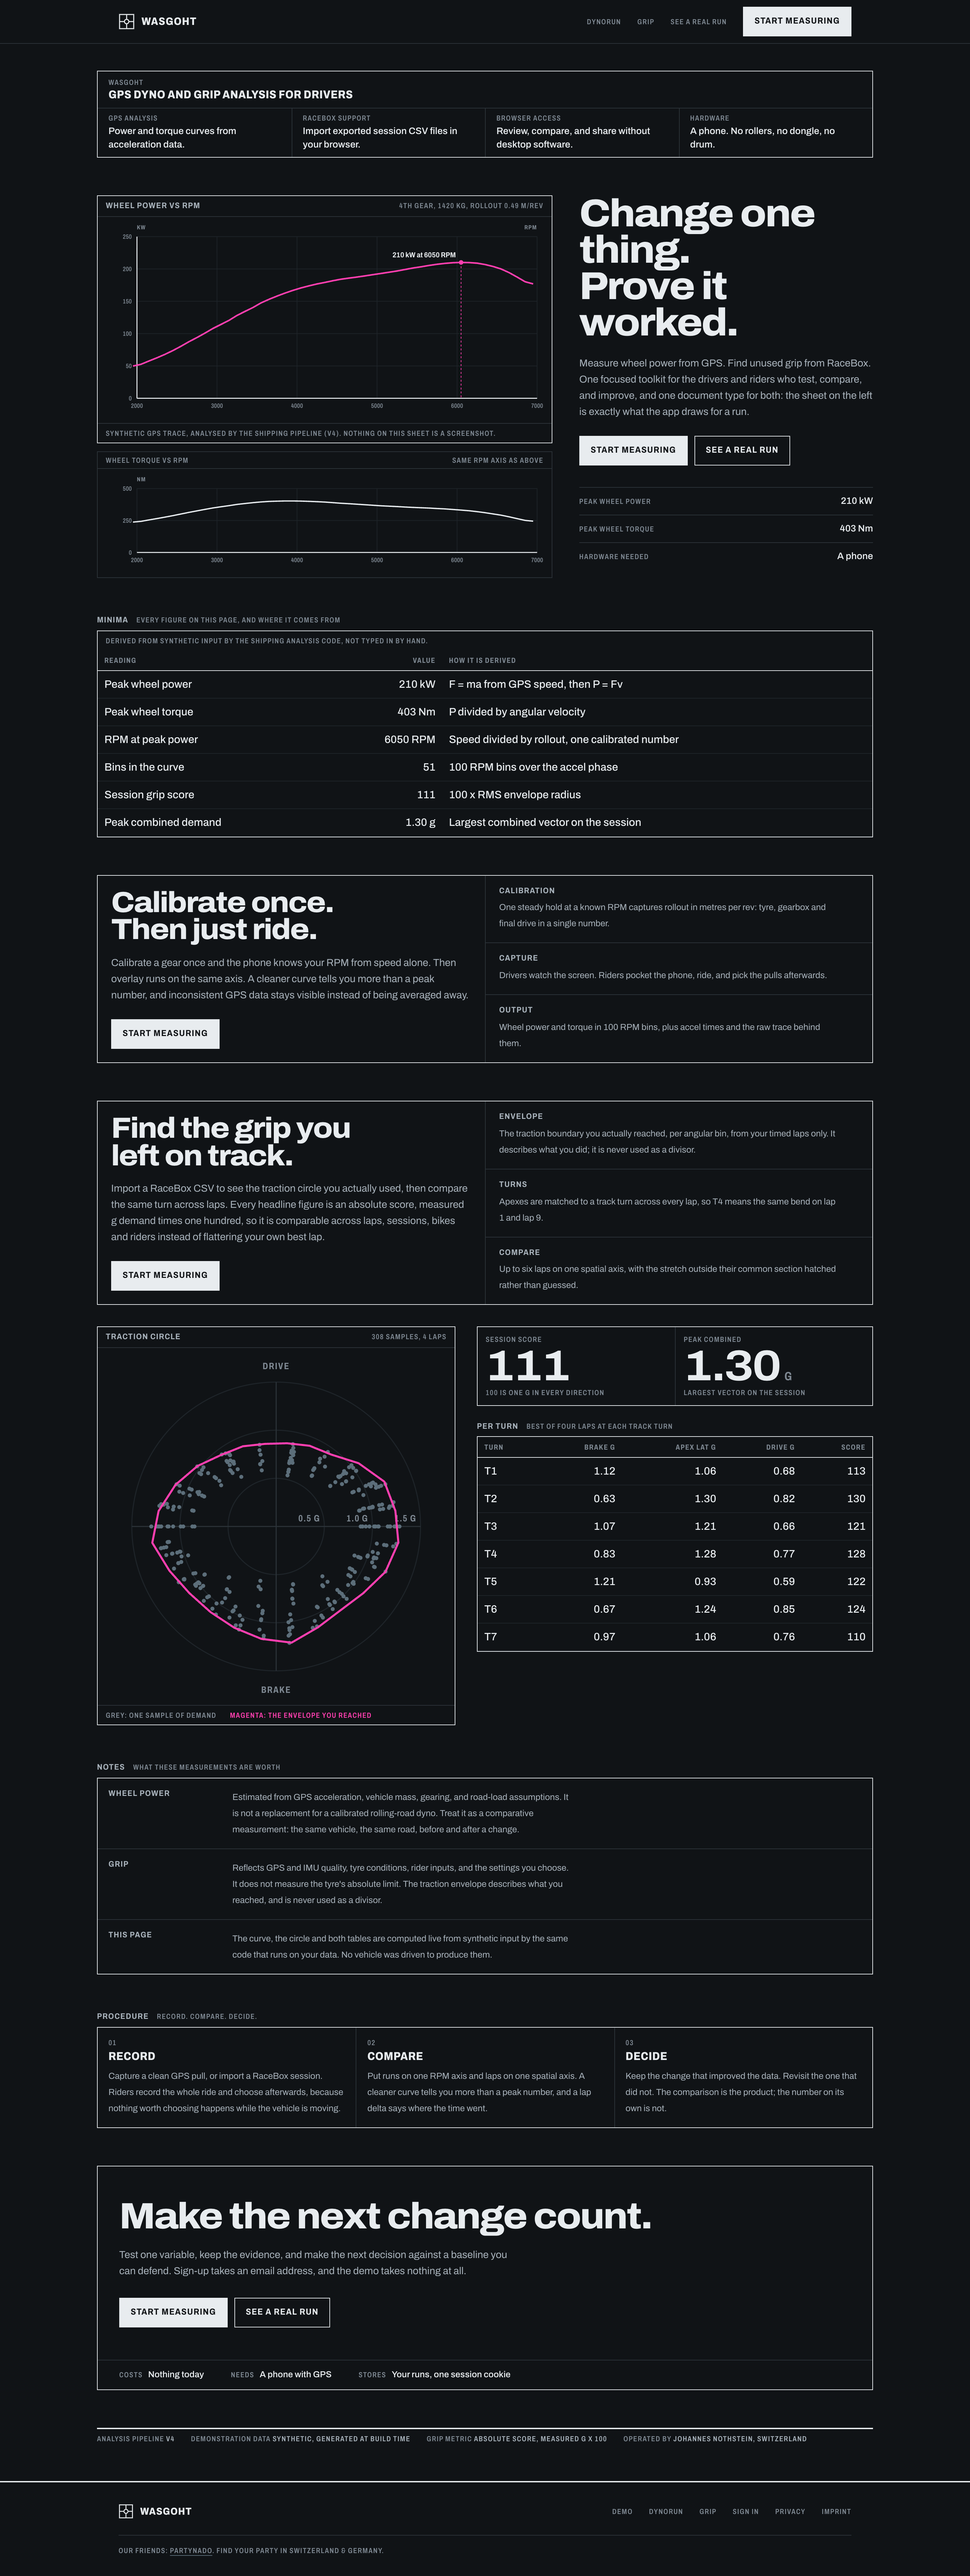
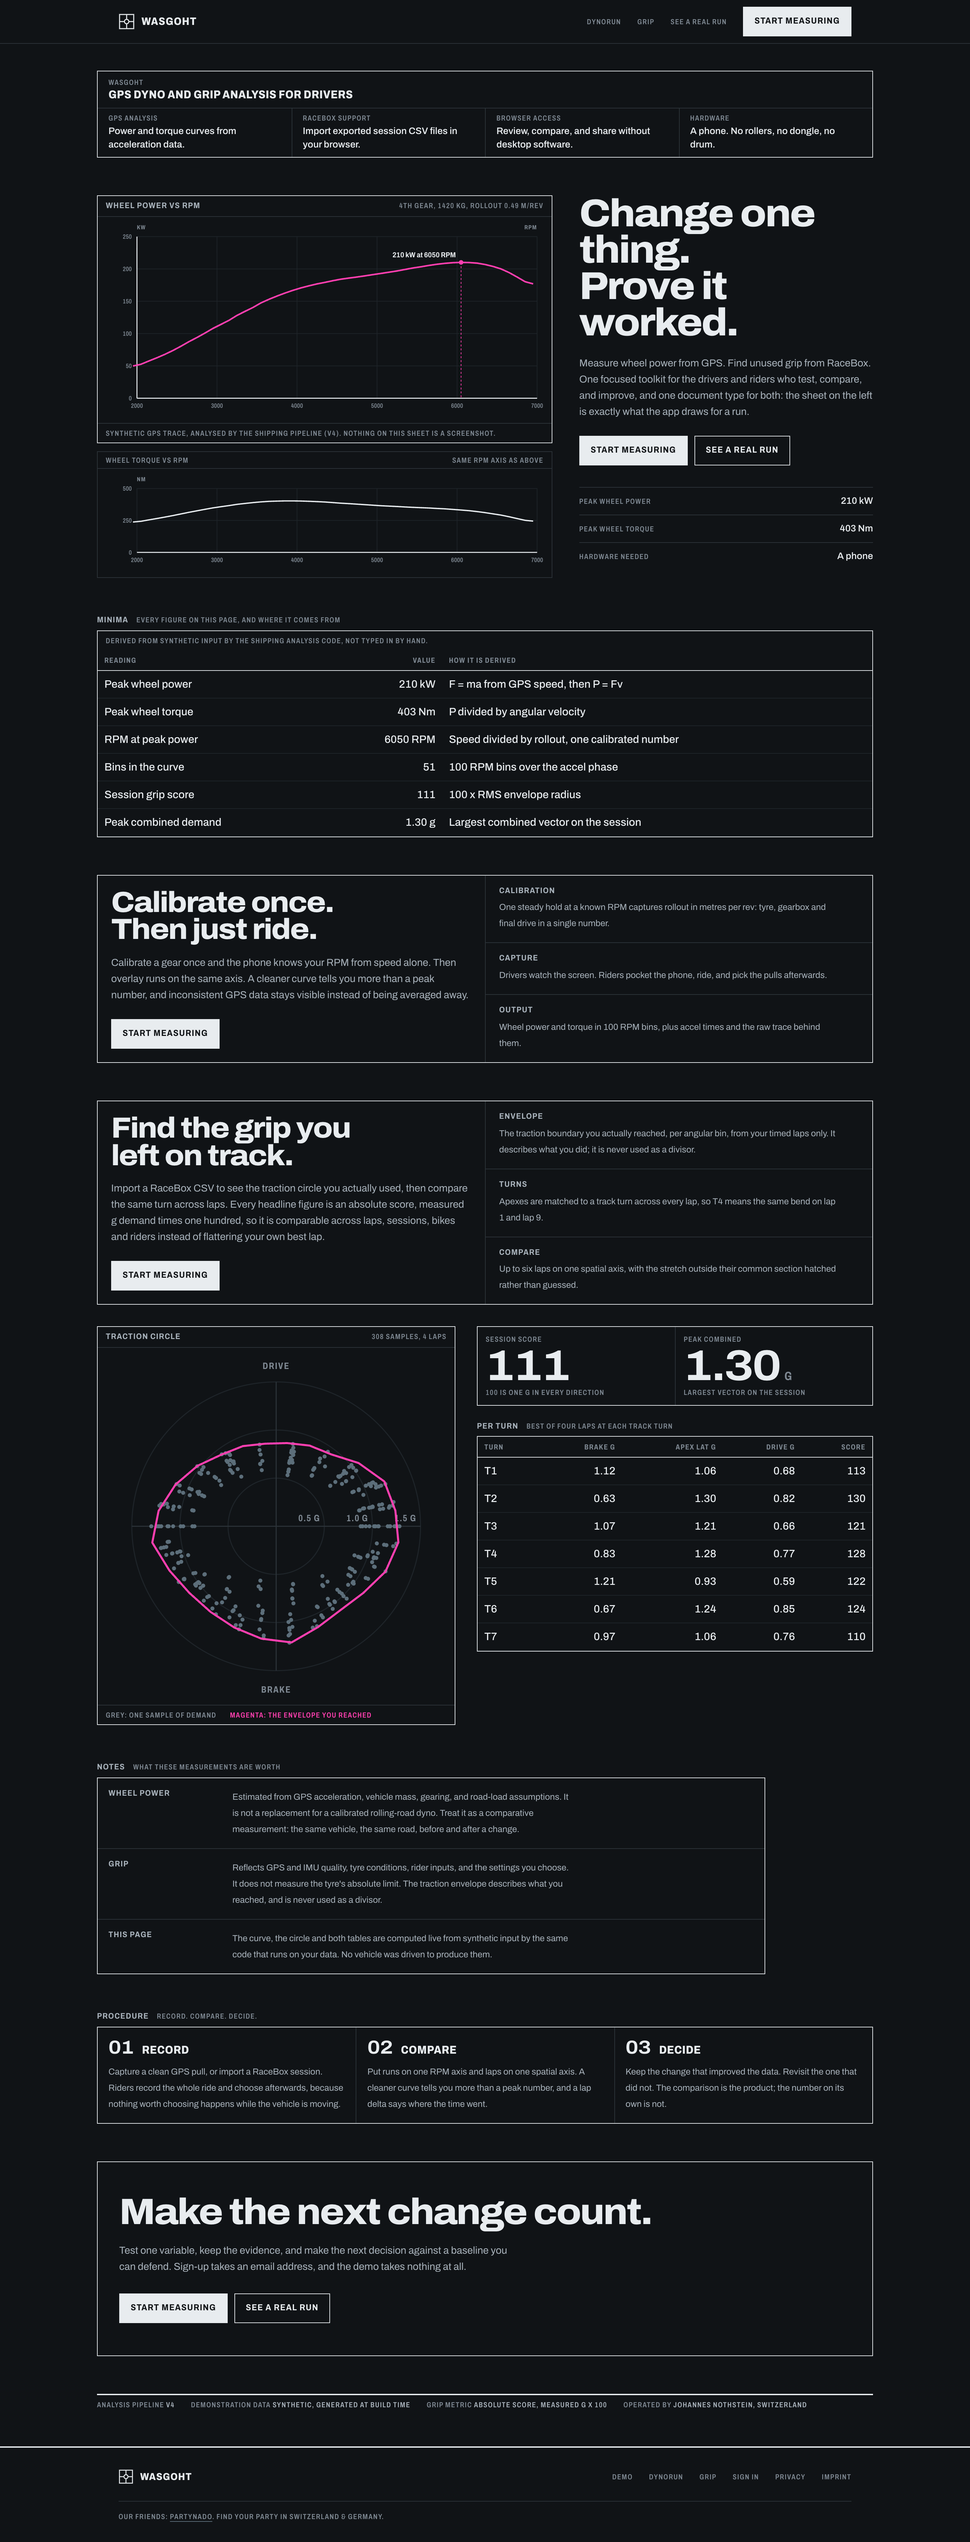
Close the last three items by deleting, not rearranging
The pattern in the previous two rounds was that rearranging the same
region kept producing a fresh similarity somewhere else, so two of these
are removals.

The closing box's COSTS / NEEDS / STORES line and the revision bar were
the same device, small-caps label plus value on one ruled row, stacked
about 60 px apart. The line goes; the revision bar stays because
provenance is load-bearing, and those three facts are already carried by
the notes block and the privacy page.

The notes frame ran the full column while its prose stopped at the 68ch
reading measure, leaving 39% of every row blank inside a rule, which is
the same defect just fixed on /login moved to /hello. The frame now comes
to the measure rather than the prose being stretched to the frame.

On a phone the notes list and the procedure list had collapsed to the
same rhythm, so the desktop differentiation did not survive. The step
number is what makes a procedure a procedure, so it leads its row at
readout scale instead of sitting above the heading as a small annotation.

Re-probed at 390 and 1440 on all three public routes: nothing crosses the
viewport, scrollWidth equals viewport width everywhere.

diff --git a/src/ui/home/landing-screen.tsx b/src/ui/home/landing-screen.tsx
@@ -935,7 +935,7 @@ export function LandingScreen() {
             </div>
           </section>
 
-          <Zone label="Notes" note="What these measurements are worth">
+          <Zone label="Notes" note="What these measurements are worth" className="max-w-[62rem]">
             <div className="grid">
               {[
                 {
@@ -969,9 +969,17 @@ export function LandingScreen() {
                   key={s.step}
                   className={`border-rule px-4 py-4 ${i > 0 ? 'border-t lg:border-l lg:border-t-0' : ''}`}
                 >
-                  <p className="t-annotation">{s.step}</p>
-                  <h3 className="t-plate-title mt-1.5">{s.name}</h3>
-                  <p className="t-body mt-2 text-[0.8125rem] leading-6">{s.body}</p>
+                  <div className="flex items-baseline gap-3">
+                    <span
+                      aria-hidden="true"
+                      className="t-data shrink-0 leading-none"
+                      style={{ fontSize: '1.75rem', fontStretch: '112%', fontWeight: 700 }}
+                    >
+                      {s.step}
+                    </span>
+                    <h3 className="t-plate-title">{s.name}</h3>
+                  </div>
+                  <p className="t-body mt-2.5 text-[0.8125rem] leading-6">{s.body}</p>
                 </li>
               ))}
             </ol>
@@ -995,18 +1003,6 @@ export function LandingScreen() {
             {/* A ruled strip, not a third right-hand column: the two tool
                 sections above already own that shape, and repeating it a third
                 time turns the page into a template. */}
-            <dl className="rule-t flex flex-wrap gap-x-10 gap-y-2 px-4 py-3 sm:px-8">
-              {[
-                { term: 'Costs', def: 'Nothing today' },
-                { term: 'Needs', def: 'A phone with GPS' },
-                { term: 'Stores', def: 'Your runs, one session cookie' },
-              ].map((row) => (
-                <div key={row.term} className="flex items-baseline gap-2">
-                  <dt className="t-annotation">{row.term}</dt>
-                  <dd className="t-data text-[0.8125rem]">{row.def}</dd>
-                </div>
-              ))}
-            </dl>
           </section>
 
           <RevisionBar
